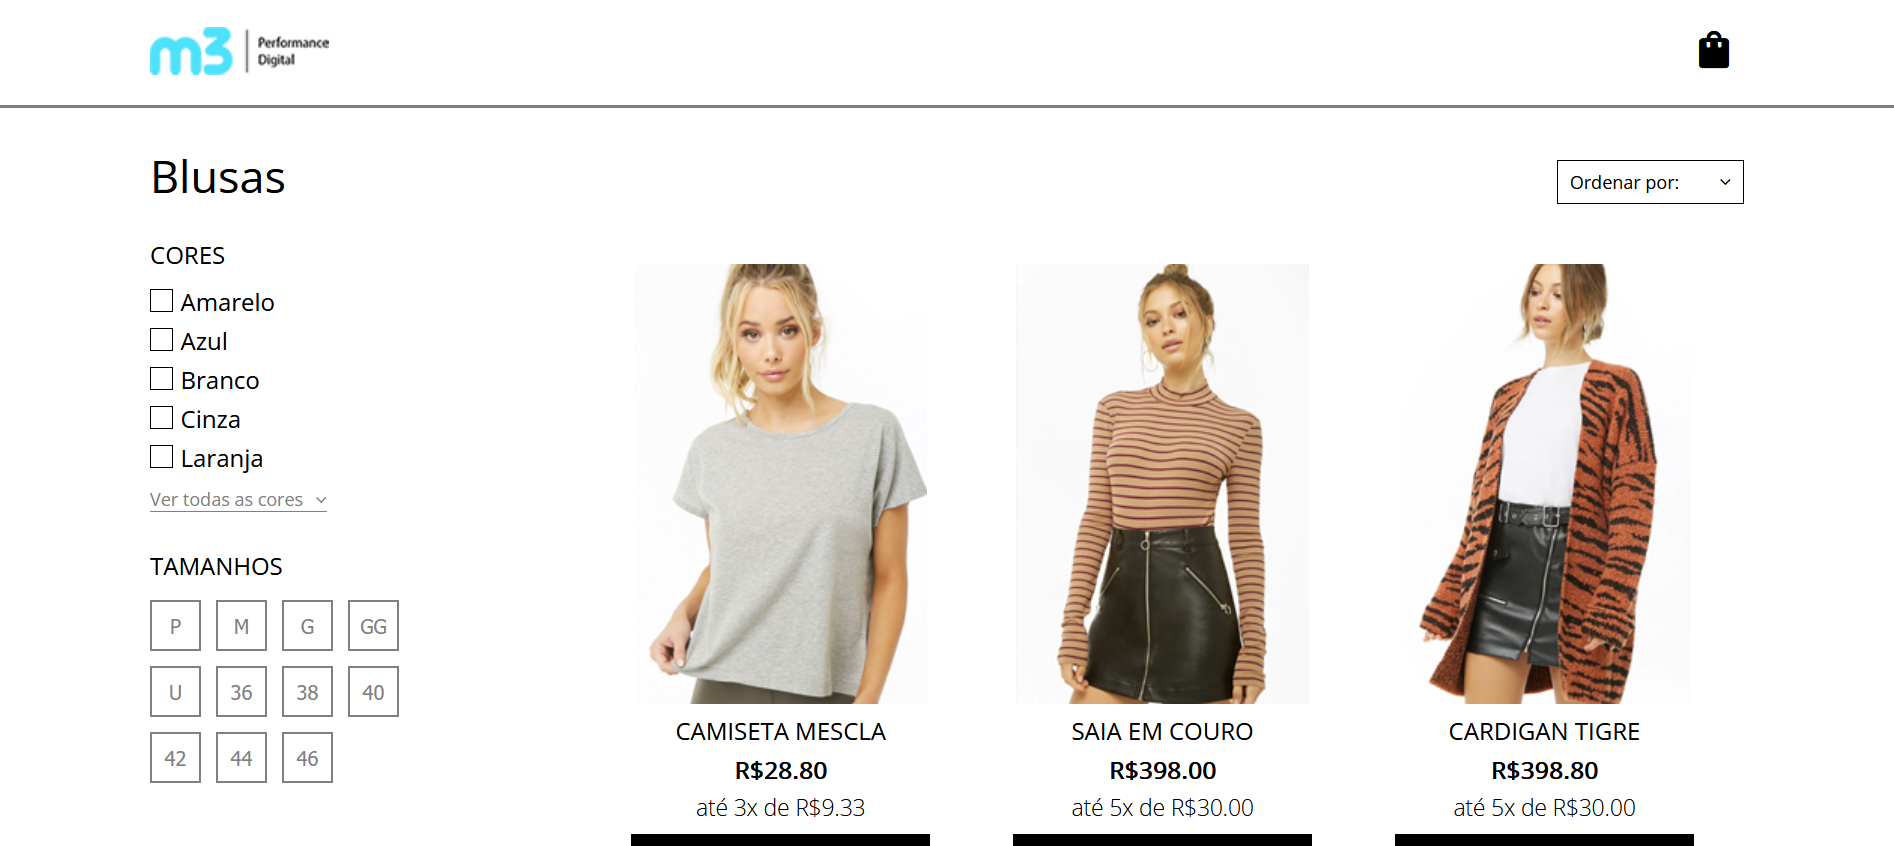
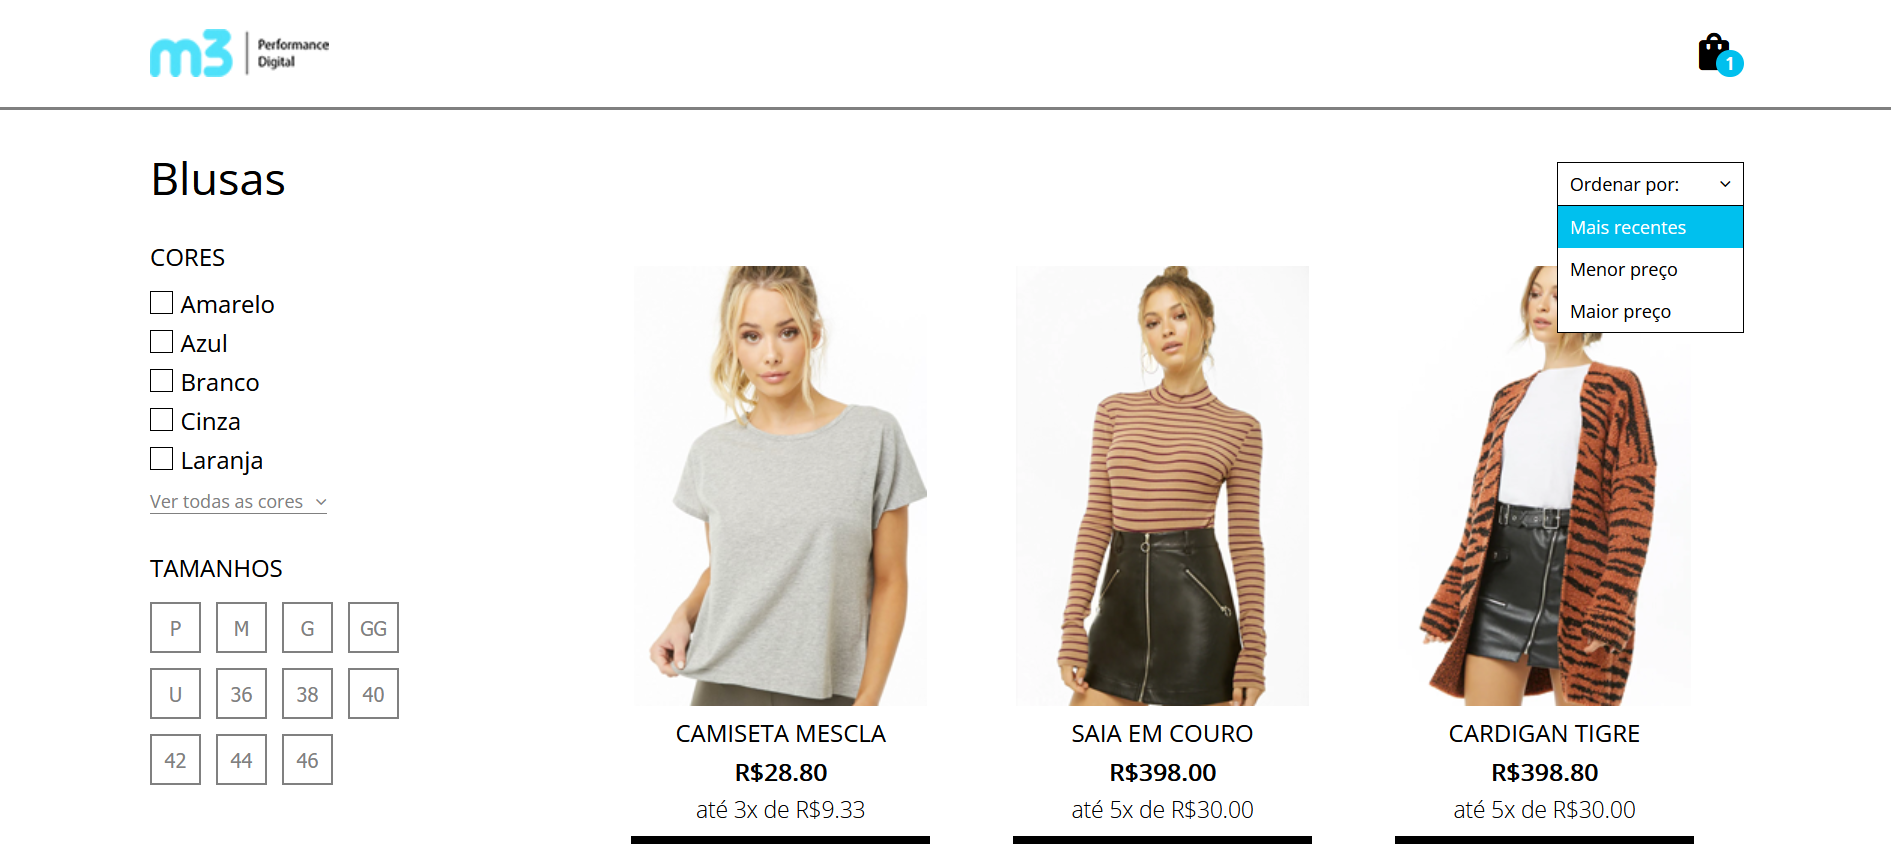
added new desktop screenshot to readme.md

diff --git a/src/js/index.js b/src/js/index.js
@@ -189,8 +189,8 @@ function selector(){
             let orderType = elem.getAttribute("ordertype");
             ordered.length = 0;
             if(orderType == "recent"){
-                ordered.push(["date",false]);
-                orderProducts("date",false);
+                ordered.push(["date",true]);
+                orderProducts("date",true);
             }else if(orderType == "low-price"){
                 ordered.push(["price",true]);
                 orderProducts("price",true);

diff --git a/src/index.html b/src/index.html
@@ -170,9 +170,9 @@
               <div id="qtd" class="qtd">0</div>
             </div>
             
-          </div>
-      
-          <div class="main-container" id="main">
+        </div>
+
+        <div class="main-container" id="main">
               <div class="mobile-filters">
                   <h1>Blusas</h1>
                   <div class="filter-order-buttons">
